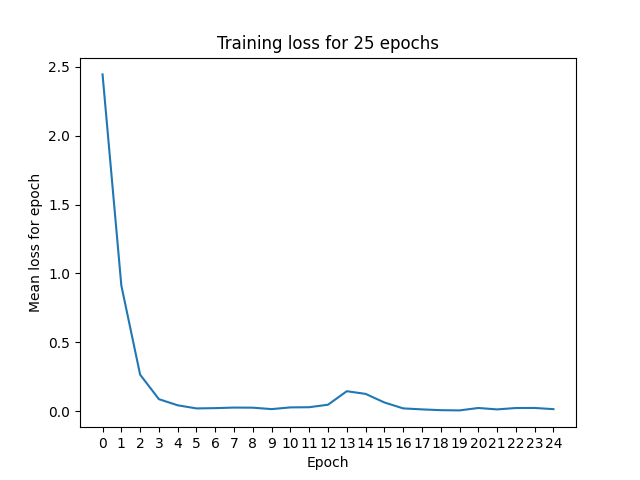
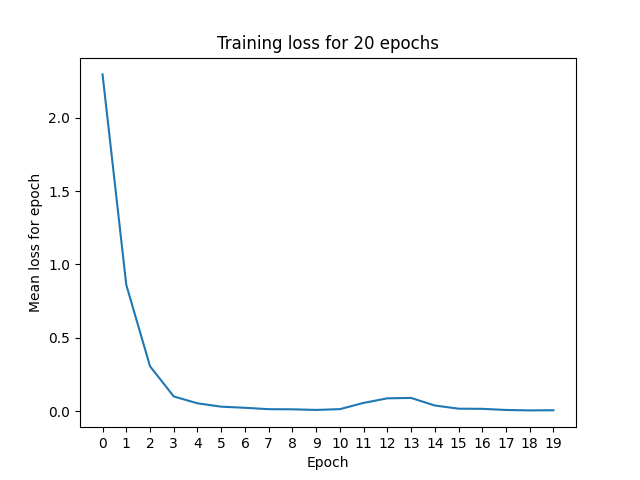
Write up bonus A

diff --git a/test.py b/test.py
@@ -48,9 +48,9 @@ def test(modelfile=None, device="cpu"):
     metric = metrics.MulticlassAccuracy()
     metric.update(predictions, truth)
     print("Accuracy: {}".format(metric.compute()))
-    # confusion = metrics.MulticlassConfusionMatrix(27)
-    # confusion.update(predictions, truth)
-    # print("Confusion Matrix\n{}".format(confusion.compute()))
+    confusion = metrics.MulticlassConfusionMatrix(27)
+    confusion.update(predictions, truth)
+    print("Confusion Matrix\n{}".format(confusion.compute()))
 
 
 test(modelfile=config["modelfile"], device=device)

diff --git a/README.md b/README.md
@@ -5,20 +5,21 @@ This repository details my solution for assignment 2 of LT2926 at the University
 I used the provided codebase as a starting point to (hopefully!) make it easier to follow for marking: https://github.com/asayeed/lt2326-h24-wa_modeling
 
 ## Assignment
-### Bonus A - Make the in-class example actually learn something (5 points)
+### Bonus A - Make the in-class example actually learn something
 
-Yes! We are actually starting with a bonus task! That is, you can skip this if you don't want to.  The in-class WikiArt demo did not actually learn the intended function.  As in, we got a maximum of 2% multiclass accuracy before convergence.  Update the model and architecture to see if you can get better performance.  If you get better than 5% accuracy, you can get the points on this task.  However, you are not allowed to use any pretrained models or transformers, just the basic PyTorch classes. You can copypaste your code from Assignment 1 too, it's OK!  Report on what you did and whether it worked.
+I made the following changes to the architecture and training:
+- Trained for 20 epochs.
+- Changed batch size to 64.
+- Decreased the learning rate to 0.001.
+- Added two conv/dropout/relu layers.
+- Changed the size of the final Linear layer to 100 (this was necessary to complete my answer to part 3).
 
-- Doing this on the *rebalanced* dataset 
+I also fixed the bug in the original test.py code that caused the class indexes to be shuffled every time the dataset was reloaded (see "Class indexes" towards the bottom of this document). I think this probably had the biggest impact: without it, every time the test script was run, the class indexes changed at random, meaning even if the model *was* predicting classes correctly, they were not being matched to the right class index in the test data and therefore it was being evaluated as an incorrect prediction. Note that without this fix, the test script returns a different accuracy every time it is rerun. With the fix, the accuracy is the same every time (as we would expect). 
 
-- Changed batch size to 64 and learning rate to 0.001, 20 epochs and I got accuracy: 0.08037383109331131
-- ... however, this changes run-by-run, it's not deterministic. Gives values anywhere in the range 2-6%. 
+With these changes the model achieved an accuracy of 0.115887850522995 i.e. 11%, so higher than the 5% requested. The training loss over time is below:
 
-Tried also adding two conv/dropout/relu layers
-and got Accuracy: 0.08411215245723724
-... but this also seemed to fluctuate around the 2-6% range when I tried running again! 
+![](./training_loss.png)
 
-Decided not to spend too much time on this since it's so similar to the first assignment
 
 ### Part 1 - Fix class imbalance
 
@@ -139,7 +140,7 @@ I defined the autoencoder as `WikiArtAutoencoder` in wikiart.py. I split it into
 - An encoder, which takes as input the image and uses progressive convolutional layers (followed by batch norm and dropout layers) to reduce the images from 3-channel 416x416 tensors to a 1-channel 10x10 tensor. **The 10x10 tensor output by the encoder is the model's compressed representation of the image.** 
 - A decoder, which is the mirror image of the encoder. 
 
-The autoencoder is trained in encodings.py. To track the training progress, I use the mean-squared error loss to compare how close the autoencoder's generated image is to the actual image.
+The autoencoder is trained in encodings.py. To track the training progress, I use the mean-squared error to compare how close the autoencoder's generated image is to the actual image.
 
 After training the encoder for 100 epochs, the mean loss per epoch plateaus, but is still fairly high: 
 
@@ -183,7 +184,7 @@ I realized while doing this task that the class indexes change between runs. Thi
 1. os.walk is used to iterate through the input directory, but os.walk doesn't preserve order; on each pass, the order in which a class is seen will change. 
 2. set() is used to store the classes rather than dict(), and sets do not preserve insertion order. 
 
-I fixed this by (1) ordering the outputs of os.walk before using them, and (2) altering the class save logic to use a dict() (Python 3.12.3 is installed on the server, so the dictionary will preserve insertion order).
+I fixed this by (1) ordering the outputs of os.walk before using them, and (2) altering the class save logic to use a dict() (Python 3.12.3 is the default Python version on the server, so the dictionary will preserve insertion order).
 
 **Model training**. 
 
@@ -208,6 +209,6 @@ File "/home/gusandmich@GU.GU.SE/assignment_2/wikiart-classification/wikiart.py",
 RuntimeError: Expected all tensors to be on the same device, but found at least two devices, cpu and cuda:<number>! 
 ```
 
-And this persisted even if I forced all the steps to be on the cuda device (with `.to(device)`), so the only way I could get the model to run is if it's run on CPU. The only other theory I had was that maybe the problem was to do with splitting the forward layer into two branches with the 'if' statement, or because I didn't wrap the embedding logic in an `nn.Sequential` (but I don't see how you'd do this, given there's a concatenation involved).
+And this persisted even if I forced all the steps to be on the cuda device (with `.to(device)`), so the only way I could get the model to run is if it's run on CPU. The only other theory I had was that maybe the problem was to do with splitting the forward layer into two branches with the 'if' statement, or because I didn't wrap the embedding logic in an `nn.Sequential` (but I don't see how you'd do this, given there's a concatenation involved), but I don't know how to fix that if it's the case. 
 
 I would love to hear ideas as to why this is happening! 
